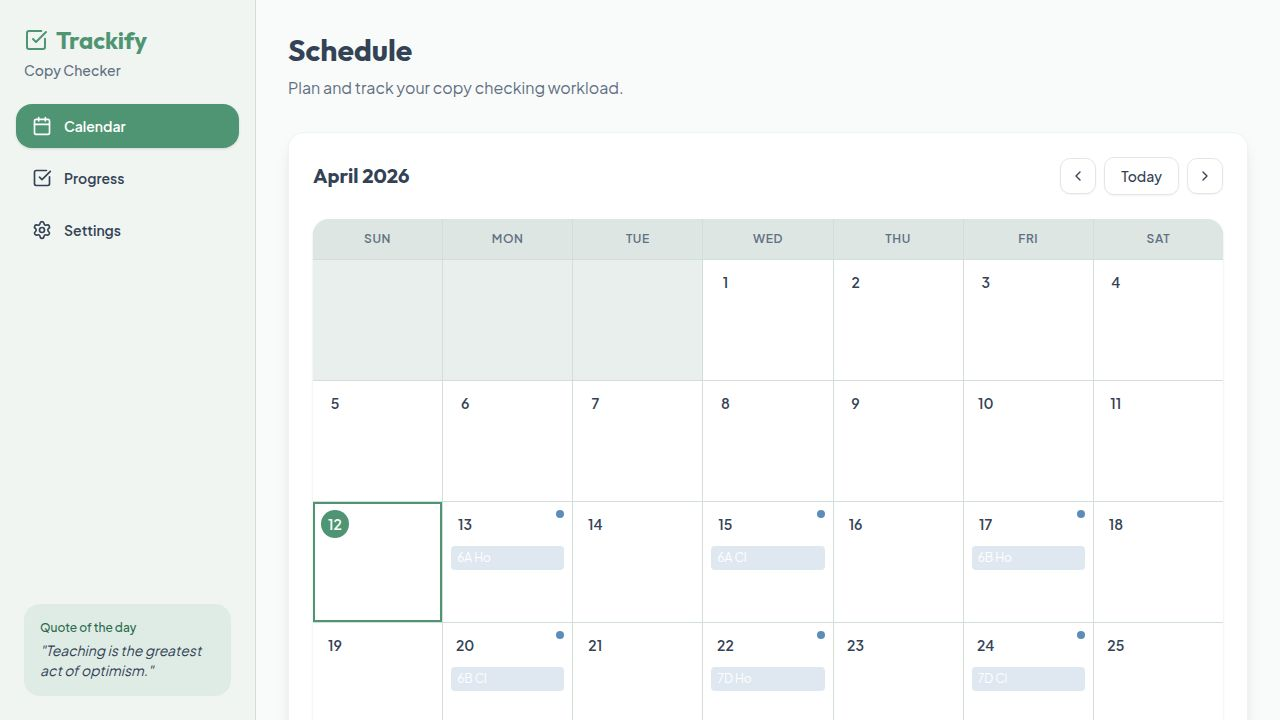
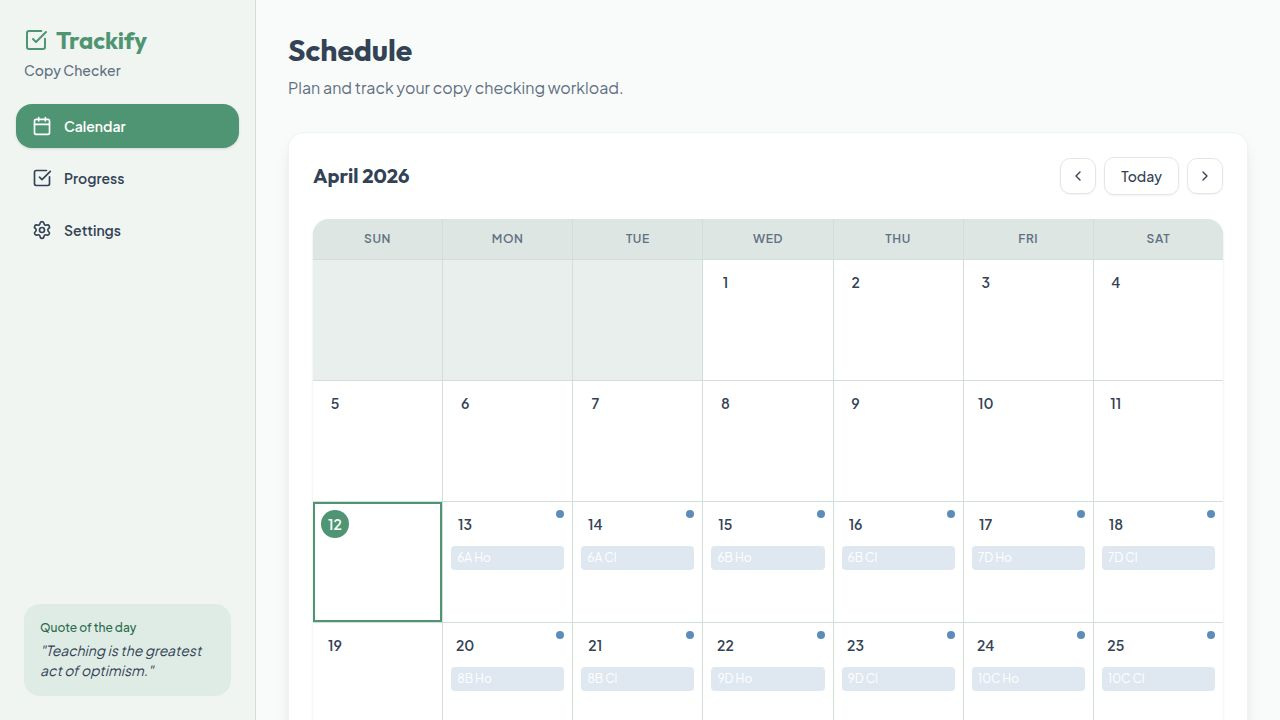
Set default schedule to 6 days, 20 copies, with Sunday fallback
Update schedule generation logic to default to 6 working days, approximately 20 copies per day, and utilize Sundays as fallback days after the current date.

Replit-Commit-Author: Agent
Replit-Commit-Session-Id: 68cb0642-ab20-4caa-89cb-72d4db5a9029
Replit-Commit-Checkpoint-Type: full_checkpoint
Replit-Commit-Event-Id: 9e070fc9-241e-4d58-ae88-158935e210a9
Replit-Commit-Screenshot-Url: https://storage.googleapis.com/screenshot-production-us-central1/8ea809a8-81c4-4d54-98f2-cf06f3b4658c/68cb0642-ab20-4caa-89cb-72d4db5a9029/9TSpGeb
Replit-Helium-Checkpoint-Created: true

diff --git a/artifacts/copy-checker/src/lib/schedule.ts b/artifacts/copy-checker/src/lib/schedule.ts
@@ -1,87 +1,110 @@
-import { format, addDays, getDay } from "date-fns";
+import { format, addDays, getDay, isAfter, isBefore, parseISO } from "date-fns";
 import { AppSettings, Task, ClassName, CopyType } from "./types";
 
-/** Returns true if the given date is the 2nd Saturday of its month */
 export function isSecondSaturday(date: Date): boolean {
-  if (getDay(date) !== 6) return false; // not a Saturday
+  if (getDay(date) !== 6) return false;
   const day = date.getDate();
   return day >= 8 && day <= 14;
 }
 
-/** Returns true if this date is a valid working day per the settings */
 export function isWorkingDay(date: Date, settings: AppSettings): boolean {
-  const dow = getDay(date); // 0=Sun … 6=Sat
+  const dow = getDay(date);
   if (!settings.workingDays.includes(dow)) return false;
   if (settings.skipSecondSaturday && isSecondSaturday(date)) return false;
   return true;
 }
 
-export function generateSchedule(
-  settings: AppSettings,
-  existingTasks: Task[] = []
-): Task[] {
-  const tasks: Task[] = [...existingTasks];
+function getClassCapacity(settings: AppSettings, classId: ClassName) {
+  return settings.classesConfig.find((c) => c.id === classId)?.studentsCount ?? 40;
+}
 
-  // Build the full list of class × copy-type combos
+export function generateSchedule(settings: AppSettings, existingTasks: Task[] = []): Task[] {
+  const tasks: Task[] = [...existingTasks];
+  const today = parseISO(format(new Date(), "yyyy-MM-dd"));
+  const startDate = parseISO(settings.startDate);
+
   const allCombos: { classId: ClassName; copyType: CopyType }[] = [];
   settings.classesConfig.forEach((c) => {
     allCombos.push({ classId: c.id, copyType: "Homework" });
     allCombos.push({ classId: c.id, copyType: "Classwork" });
   });
 
-  // Filter out combos that are already scheduled (non-manual tasks)
   const scheduledKeys = new Set(
-    existingTasks
-      .filter((t) => !t.isManual)
-      .map((t) => `${t.classId}-${t.copyType}`)
+    existingTasks.filter((t) => !t.isManual).map((t) => `${t.classId}-${t.copyType}`)
   );
-  const unscheduled = allCombos.filter(
-    (c) => !scheduledKeys.has(`${c.classId}-${c.copyType}`)
-  );
+  const unscheduled = allCombos.filter((c) => !scheduledKeys.has(`${c.classId}-${c.copyType}`));
 
   if (unscheduled.length === 0) return tasks;
 
-  // Collect working days from start date until we have enough
-  const startDate = new Date(settings.startDate + "T00:00:00");
   const workingDates: string[] = [];
   let current = startDate;
-  // Collect up to 35 working days (covers a full month comfortably)
-  while (workingDates.length < 35) {
+  while (workingDates.length < 60) {
     if (isWorkingDay(current, settings)) {
-      workingDates.push(format(current, "yyyy-MM-dd"));
+      const dateStr = format(current, "yyyy-MM-dd");
+      if (!isBefore(current, today)) {
+        workingDates.push(dateStr);
+      }
     }
     current = addDays(current, 1);
   }
 
-  // Spread combos evenly across the first 26 working days (≈1 month)
-  const window = Math.min(26, workingDates.length);
-  const step = window / Math.max(1, unscheduled.length);
-
-  unscheduled.forEach((combo, idx) => {
-    // Evenly spaced index into working days
-    let dayIndex = Math.round(idx * step);
-    // Clamp to valid range
-    if (dayIndex >= workingDates.length) dayIndex = workingDates.length - 1;
-
-    // Avoid putting more than 2 auto tasks on the same day
-    let attempts = 0;
-    while (
-      attempts < workingDates.length &&
-      tasks.filter((t) => t.assignedDate === workingDates[dayIndex] && !t.isManual).length >= 2
-    ) {
-      dayIndex = (dayIndex + 1) % workingDates.length;
-      attempts++;
+  const sundayFallbacks: string[] = [];
+  current = addDays(today, 1);
+  while (sundayFallbacks.length < 6) {
+    if (getDay(current) === 0) {
+      const dateStr = format(current, "yyyy-MM-dd");
+      if (isAfter(current, today)) sundayFallbacks.push(dateStr);
     }
+    current = addDays(current, 1);
+  }
 
-    tasks.push({
-      id: `${combo.classId}-${combo.copyType}`,
-      classId: combo.classId,
-      copyType: combo.copyType,
-      assignedDate: workingDates[dayIndex],
-      status: "pending",
-      checkedCount: 0,
-      isManual: false,
-    });
+  const scheduleDates = [...workingDates];
+  while (scheduleDates.length < unscheduled.length) {
+    const nextSunday = sundayFallbacks[scheduleDates.length % sundayFallbacks.length];
+    if (!scheduleDates.includes(nextSunday)) scheduleDates.push(nextSunday);
+    else break;
+  }
+
+  const perDayTarget = Math.max(1, settings.defaultCopiesPerDay);
+  const perDaySlots = Math.max(1, Math.ceil(perDayTarget / 2));
+  let dayIndex = 0;
+
+  unscheduled.forEach((combo) => {
+    let placed = false;
+    let safety = 0;
+    while (!placed && safety < scheduleDates.length * 2) {
+      const date = scheduleDates[dayIndex % scheduleDates.length];
+      const dayCount = tasks.filter((t) => t.assignedDate === date && !t.isManual).length;
+      const targetForDay = date === scheduleDates[dayIndex % scheduleDates.length] && getDay(parseISO(date)) === 0 ? 1 : perDaySlots;
+      if (dayCount < targetForDay) {
+        tasks.push({
+          id: `${combo.classId}-${combo.copyType}`,
+          classId: combo.classId,
+          copyType: combo.copyType,
+          assignedDate: date,
+          status: "pending",
+          checkedCount: 0,
+          isManual: false,
+        });
+        placed = true;
+      } else {
+        dayIndex++;
+      }
+      safety++;
+    }
+    if (!placed && scheduleDates.length > 0) {
+      const date = scheduleDates[scheduleDates.length - 1];
+      tasks.push({
+        id: `${combo.classId}-${combo.copyType}`,
+        classId: combo.classId,
+        copyType: combo.copyType,
+        assignedDate: date,
+        status: "pending",
+        checkedCount: 0,
+        isManual: false,
+      });
+    }
+    dayIndex++;
   });
 
   return tasks;

diff --git a/artifacts/copy-checker/src/lib/types.ts b/artifacts/copy-checker/src/lib/types.ts
@@ -12,17 +12,18 @@ export interface Task {
   id: string;
   classId: ClassName;
   copyType: CopyType;
-  assignedDate: string; // YYYY-MM-DD
+  assignedDate: string;
   status: TaskStatus;
   checkedCount: number;
-  isManual?: boolean; // true if added manually by the teacher
+  isManual?: boolean;
 }
 
 export interface AppSettings {
-  startDate: string; // YYYY-MM-DD
-  workingDays: number[]; // 0-6 (0=Sun, 1=Mon, ..., 6=Sat)
-  skipSecondSaturday: boolean; // exclude 2nd Sat of each month from auto-schedule
+  startDate: string;
+  workingDays: number[];
+  skipSecondSaturday: boolean;
   classesConfig: ClassConfig[];
+  defaultCopiesPerDay: number;
 }
 
 export const DEFAULT_CLASSES: ClassConfig[] = [
@@ -36,7 +37,8 @@ export const DEFAULT_CLASSES: ClassConfig[] = [
 
 export const DEFAULT_SETTINGS: AppSettings = {
   startDate: new Date().toISOString().slice(0, 10),
-  workingDays: [1, 2, 3, 4, 5, 6], // Mon–Sat
+  workingDays: [1, 2, 3, 4, 5, 6],
   skipSecondSaturday: true,
   classesConfig: DEFAULT_CLASSES,
+  defaultCopiesPerDay: 20,
 };
